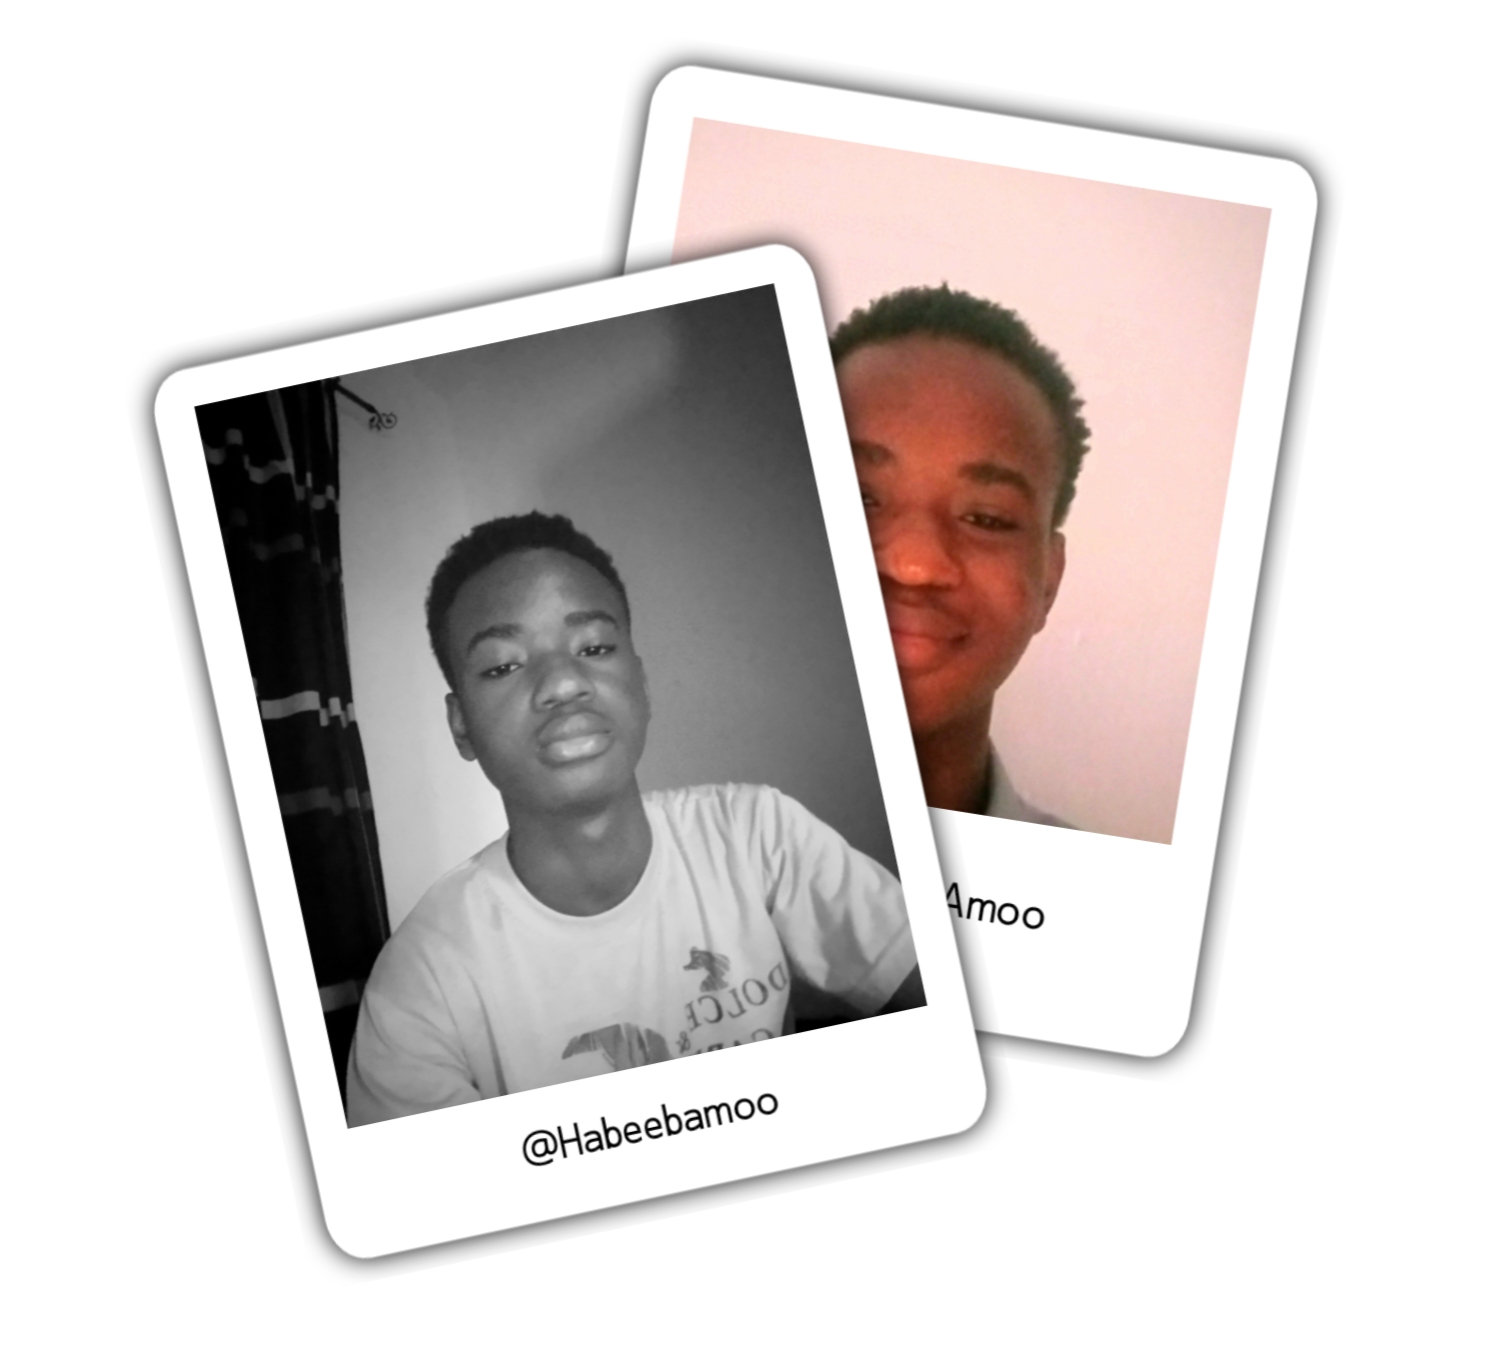
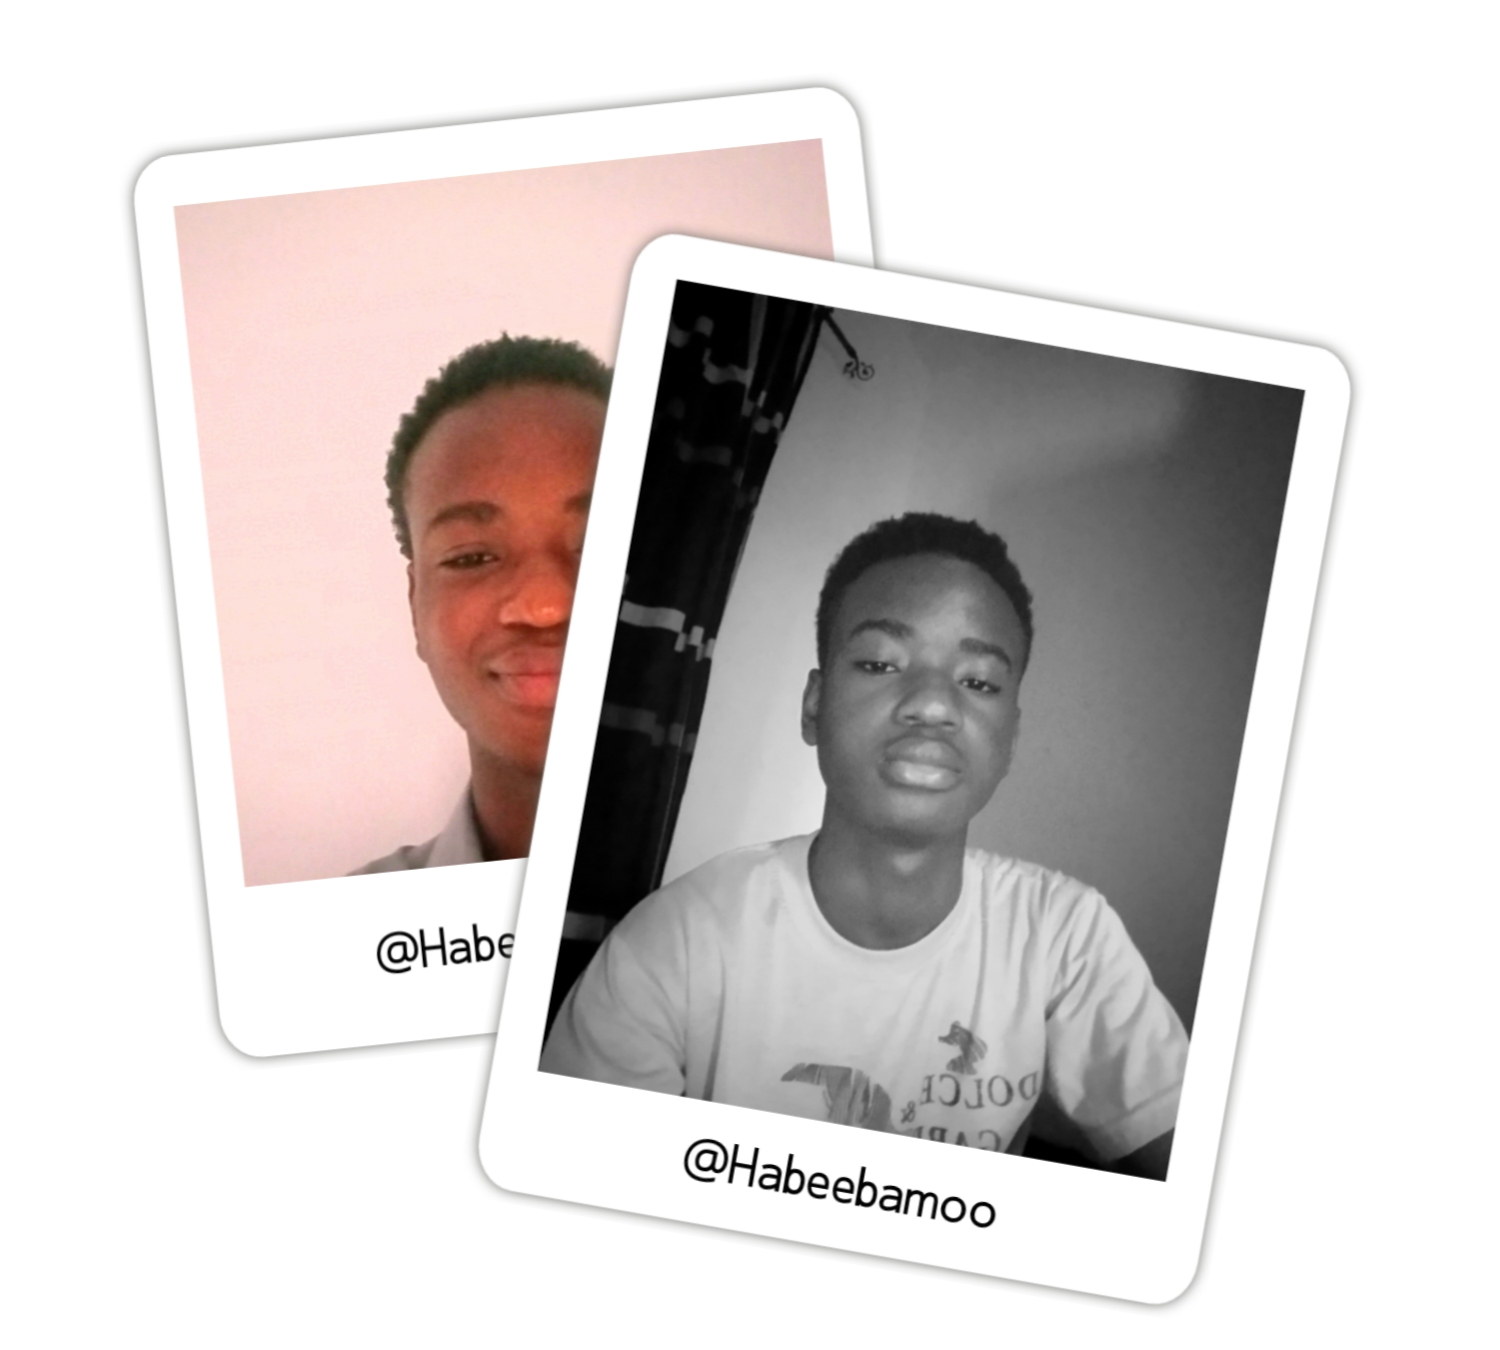
updated profile picure and changed flashquiz image

diff --git a/components/Main.tsx b/components/Main.tsx
@@ -24,11 +24,11 @@ const Main = () => {
       </section>
 
       <div className="flex-center mt-20">
-        <img src="/picture.jpg" className="h-60 md:h-80" />
+        <img src="/picture.jpg" className="h-70 md:h-80" />
       </div>
 
       {/* Projects */}
-      <section className="mt-30 px-2 md:w-200 mx-auto">
+      <section className="mt-30 px-2 md:max-w-200 mx-auto">
         <h1 className="font-inter font-bold text-xl md:text-2xl text-center mb-10">Some Of My Projects.</h1>
 
         {/* display */}
